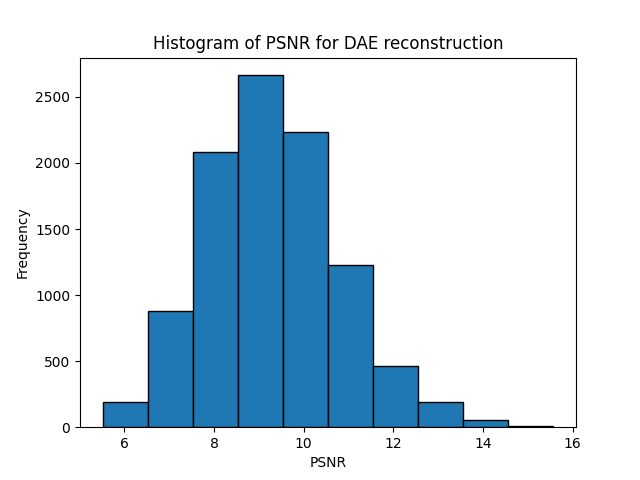
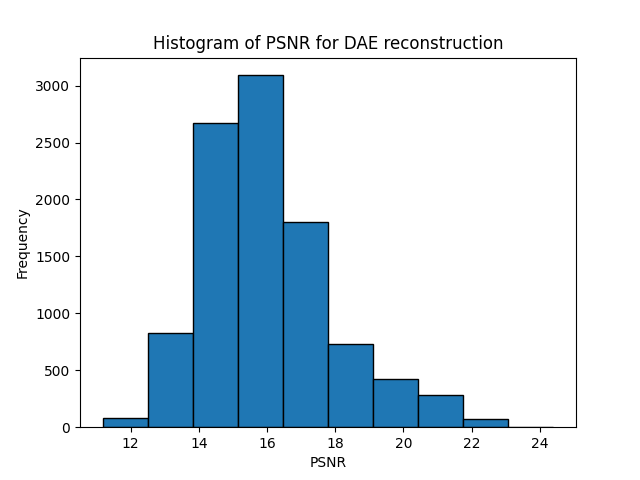
histograms

diff --git a/evaluation/evaluation.py b/evaluation/evaluation.py
@@ -7,14 +7,13 @@ import torch
 import torchvision
 from torchvision import transforms
 import skimage.metrics
-import torchmetrics
 import matplotlib.pyplot as plt
 from mnist_mae_vit.mae_vit import MaskedAutoencoderViTForMNIST
 from mnist_mae_vit.dae import ConvDenoiser
-from cifar10_task.cifar10_models import CIFAR10Autoencoder, CustomCIFAR10MaskedAutoencoder
+from cifar10_task.cifar10_models import CIFAR10DenoisingAutoencoder, CustomCIFAR10MaskedAutoencoder
 
 
-def load_mnist():
+def load_mnist_for_mae():
     transform = transforms.Compose([
         transforms.ToTensor(),
         transforms.Normalize((0.5,), (0.5,))
@@ -24,10 +23,17 @@ def load_mnist():
     
     return testloader
 
-def load_cifar10():
+def load_mnist_for_dae():
+    transform = transforms.ToTensor()
+    testset = torchvision.datasets.MNIST('./data', download=True, train=False, transform=transform)
+    testloader = torch.utils.data.DataLoader(testset, shuffle=False)
+    
+    return testloader
+
+def load_cifar10_for_mae():
     transform = transforms.Compose([
         transforms.ToTensor(),
-        transforms.Normalize([0.4914, 0.4822, 0.4465], [0.2470, 0.2435, 0.2616])
+        transforms.Normalize(0.5, 0.5)
     ])
 
     testset = torchvision.datasets.CIFAR10(
@@ -36,6 +42,22 @@ def load_cifar10():
         testset, shuffle=False)
     
     return testloader
+
+def load_cifar10_for_dae():
+    transform = transforms.ToTensor()
+
+    testset = torchvision.datasets.CIFAR10(
+        root='./data', train=False, download=True, transform=transform)
+    testloader = torch.utils.data.DataLoader(
+        testset, shuffle=False)
+    
+    return testloader
+
+def denormalize(x):
+    """Denormalize images"""
+    mean = torch.tensor([0.5])
+    std = torch.tensor([0.5])
+    return x * std + mean
 
 def load_mnist_mae():
     mae_model = MaskedAutoencoderViTForMNIST(
@@ -60,7 +82,7 @@ def load_mnist_dae():
     return dae_model
 
 def load_cifar10_dae():
-    dae_model = CIFAR10Autoencoder()
+    dae_model = CIFAR10DenoisingAutoencoder()
     dae_model.load_state_dict(torch.load('cifar10_task/cifar10_dae_weights_20_epochs.pth', weights_only=True, map_location=torch.device('cpu'))) 
     dae_model.eval()
     return dae_model
@@ -80,12 +102,29 @@ def generate_mae_psnr_plot(image_loader, model, save_path, mask_ratio=0.75):
 
     with torch.no_grad():
         for image, _ in image_loader:
-            loss, pred, mask = model(image.float(), mask_ratio=mask_ratio)
-            reconstructed = model.unpatchify(pred)
+            # MNIST VERSION
+            # _, pred, mask = model(image.float(), mask_ratio=mask_ratio)
+            # mask = mask.unsqueeze(-1).repeat(1, 1, model.patch_embed.patch_size[0]**2)  # (N, H*W, p*p*3)
+            # mask = model.unpatchify(mask)
+
+            # reconstructed = model.unpatchify(pred)
+            # reconstructed = ((1-mask)*image) + (mask*reconstructed)
+
+            # CIFAR10 VERSION
+            reconstructed, mask = model(image.float(), mask_ratio=mask_ratio)
+            reconstructed = reconstructed * mask + image * (1 - mask)
+            image = denormalize(image)
+            reconstructed = denormalize(reconstructed)
 
             # renormalize
             image = (image - torch.min(image))/(torch.max(image) - torch.min(image))
             reconstructed = (reconstructed - torch.min(reconstructed))/(torch.max(reconstructed) - torch.min(reconstructed))
+
+            # plt.subplot(1, 2, 1)
+            # plt.imshow(image.squeeze(0).permute(1, 2, 0).numpy())
+            # plt.subplot(1, 2, 2)
+            # plt.imshow(reconstructed.squeeze(0).permute(1, 2, 0).numpy())
+            # plt.show()
             psnr = single_image_psnr(image, reconstructed)
             psnrs.append(psnr)
 
@@ -107,11 +146,30 @@ def generate_dae_psnr_plot(image_loader, model, save_path):
 
     with torch.no_grad():
         for image, _ in image_loader:
-            reconstructed, _ = model(image.float())
+            # MNIST VERSION
+            # noise_factor = 0.5
+            # noisy_imgs = image + noise_factor * torch.randn(image.shape)
+            # noisy_imgs = np.clip(noisy_imgs, 0., 1.)
+            # reconstructed, _ = model(noisy_imgs)
+            
+            # CIFAR10 VERSION
+            noise = torch.randn_like(image) * 0.1
+            noisy_images = image + noise
+            noisy_images = torch.clamp(noisy_images, 0., 1.)
+            reconstructed = model(image.float())
+            image = denormalize(image)
+            reconstructed = denormalize(reconstructed)
 
             # renormalize
             image = (image - torch.min(image))/(torch.max(image) - torch.min(image))
             reconstructed = (reconstructed - torch.min(reconstructed))/(torch.max(reconstructed) - torch.min(reconstructed))
+
+            # plt.subplot(1, 2, 1)
+            # plt.imshow(image.squeeze(0).permute(1, 2, 0).numpy())
+            # plt.subplot(1, 2, 2)
+            # plt.imshow(reconstructed.squeeze(0).permute(1, 2, 0).numpy())
+            # plt.show()
+
             psnr = single_image_psnr(image, reconstructed)
             psnrs.append(psnr)
 
@@ -130,14 +188,7 @@ def generate_dae_psnr_plot(image_loader, model, save_path):
 
 
 def structural_similarity(true_images, generated_images, greyscale=False):
-    print(true_images[0].shape)
-    print(generated_images[0].shape)
-
-    if greyscale:
-        channel_axis = 0
-    else:
-        channel_axis = 2
-    ssim = [skimage.metrics.structural_similarity(true_image, generated_image, channel_axis=channel_axis, data_range=1) for true_image, generated_image in zip(true_images, generated_images)]
+    ssim = [skimage.metrics.structural_similarity(true_image, generated_image, channel_axis=0, data_range=1) for true_image, generated_image in zip(true_images, generated_images)]
     return ssim
 
 def generate_mae_ssim_plot(image_loader, model, save_path, greyscale, mask_ratio=0.75):
@@ -146,12 +197,30 @@ def generate_mae_ssim_plot(image_loader, model, save_path, greyscale, mask_ratio
 
     with torch.no_grad():
         for image, _ in image_loader:
-            loss, pred, mask = model(image.float(), mask_ratio=mask_ratio)
-            reconstructed = model.unpatchify(pred)
+            # MNIST VERSION
+            # _, pred, mask = model(image.float(), mask_ratio=mask_ratio)
+            # mask = mask.unsqueeze(-1).repeat(1, 1, model.patch_embed.patch_size[0]**2)  # (N, H*W, p*p*3)
+            # mask = model.unpatchify(mask)
+
+            # reconstructed = model.unpatchify(pred)
+            # reconstructed = ((1-mask)*image) + (mask*reconstructed)
+
+            # CIFAR10 VERSION
+            reconstructed, mask = model(image.float(), mask_ratio=mask_ratio)
+            reconstructed = reconstructed * mask + image * (1 - mask)
+            image = denormalize(image)
+            reconstructed = denormalize(reconstructed)
 
             # renormalize
             image = (image - torch.min(image))/(torch.max(image) - torch.min(image))
             reconstructed = (reconstructed - torch.min(reconstructed))/(torch.max(reconstructed) - torch.min(reconstructed))
+
+            # plt.subplot(1, 2, 1)
+            # plt.imshow(image.squeeze(0).squeeze(0).numpy(), cmap='gray')
+            # plt.subplot(1, 2, 2)
+            # plt.imshow(reconstructed.squeeze(0).squeeze(0).numpy(), cmap='gray')
+            # plt.show()
+            # break
 
             true_images.append(image.squeeze(0).numpy())
             generated_images.append(reconstructed.squeeze(0).numpy())
@@ -177,7 +246,26 @@ def generate_dae_ssim_plot(image_loader, model, save_path, greyscale):
 
     with torch.no_grad():
         for image, _ in image_loader:
-            reconstructed, _ = model(image.float())
+            # MNIST VERSION
+            # noise_factor = 0.5
+            # noisy_imgs = image + noise_factor * torch.randn(image.shape)
+            # noisy_imgs = np.clip(noisy_imgs, 0., 1.)
+            # reconstructed, _ = model(noisy_imgs)
+            
+            # CIFAR10 VERSION
+            noise = torch.randn_like(image) * 0.1
+            noisy_images = image + noise
+            noisy_images = torch.clamp(noisy_images, 0., 1.)
+            reconstructed = model(image.float())
+            image = denormalize(image)
+            reconstructed = denormalize(reconstructed)
+
+            # plt.subplot(1, 2, 1)
+            # plt.imshow(image.squeeze(0).squeeze(0).numpy(), cmap='gray')
+            # plt.subplot(1, 2, 2)
+            # plt.imshow(reconstructed.squeeze(0).squeeze(0).numpy(), cmap='gray')
+            # plt.show()
+            # break
 
             # renormalize
             image = (image - torch.min(image))/(torch.max(image) - torch.min(image))
@@ -214,8 +302,10 @@ if __name__ == "__main__":
     # plt.imshow(best_image)
     # plt.axis('off')
     # plt.show()
-    mnist_dataloader = load_mnist()
-    cifar10_dataloader = load_cifar10()
+    mnist_mae_dataloader = load_mnist_for_mae()
+    mnist_dae_dataloader = load_mnist_for_dae()
+    cifar10_mae_dataloader = load_cifar10_for_mae()
+    cifar10_dae_dataloader = load_cifar10_for_dae()
 
     mae_mnist_model = load_mnist_mae()
     dae_mnist_model = load_mnist_dae()
@@ -223,12 +313,12 @@ if __name__ == "__main__":
     dae_cifar10_model = load_cifar10_dae()
 
 
-    # generate_mae_psnr_plot(mnist_dataloader, mae_model, 'mae_psnr_mnist.png')
-    generate_mae_psnr_plot(cifar10_dataloader, mae_cifar10_model, 'mae_psnr_cifar10.png')
-    # generate_dae_psnr_plot(mnist_dataloader, dae_model, 'dae_psnr_mnist.png')
-    generate_dae_psnr_plot(cifar10_dataloader, dae_cifar10_model, 'dae_psnr_cifar10.png')
+    # generate_mae_psnr_plot(mnist_mae_dataloader, mae_mnist_model, 'mae_psnr_mnist.png')
+    generate_mae_psnr_plot(cifar10_mae_dataloader, mae_cifar10_model, 'mae_psnr_cifar10.png')
+    # generate_dae_psnr_plot(mnist_dae_dataloader, dae_mnist_model, 'dae_psnr_mnist.png')
+    generate_dae_psnr_plot(cifar10_dae_dataloader, dae_cifar10_model, 'dae_psnr_cifar10.png')
 
-    # generate_mae_ssim_plot(mnist_dataloader, mae_model, 'mae_ssim_mnist.png', greyscale=True)
-    generate_mae_ssim_plot(cifar10_dataloader, mae_cifar10_model, 'mae_ssim_cifar10.png', greyscale=False)
-    # generate_dae_ssim_plot(mnist_dataloader, dae_model, 'dae_ssim_mnist.png', greyscale=True)
-    generate_dae_ssim_plot(cifar10_dataloader, dae_cifar10_model, 'dae_ssim_cifar10.png', greyscale=False)
+    # generate_mae_ssim_plot(mnist_mae_dataloader, mae_mnist_model, 'mae_ssim_mnist.png', greyscale=True)
+    generate_mae_ssim_plot(cifar10_mae_dataloader, mae_cifar10_model, 'mae_ssim_cifar10.png', greyscale=False)
+    # generate_dae_ssim_plot(mnist_dae_dataloader, dae_mnist_model, 'dae_ssim_mnist.png', greyscale=True)
+    generate_dae_ssim_plot(cifar10_dae_dataloader, dae_cifar10_model, 'dae_ssim_cifar10.png', greyscale=False)
